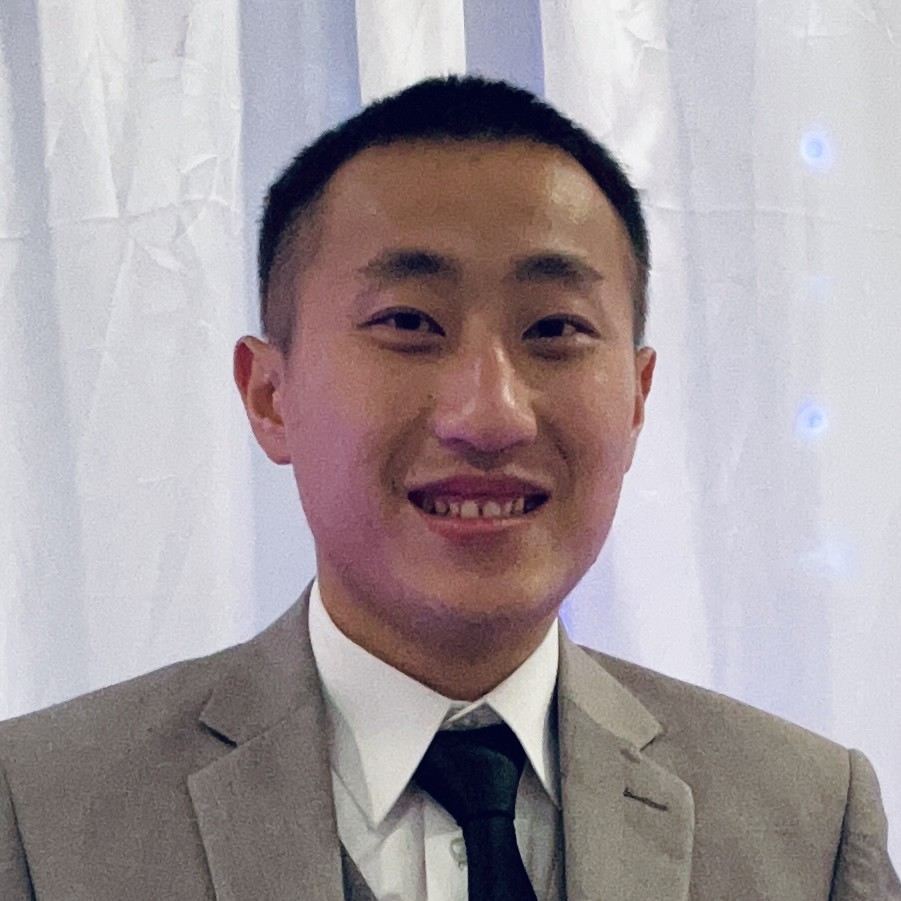
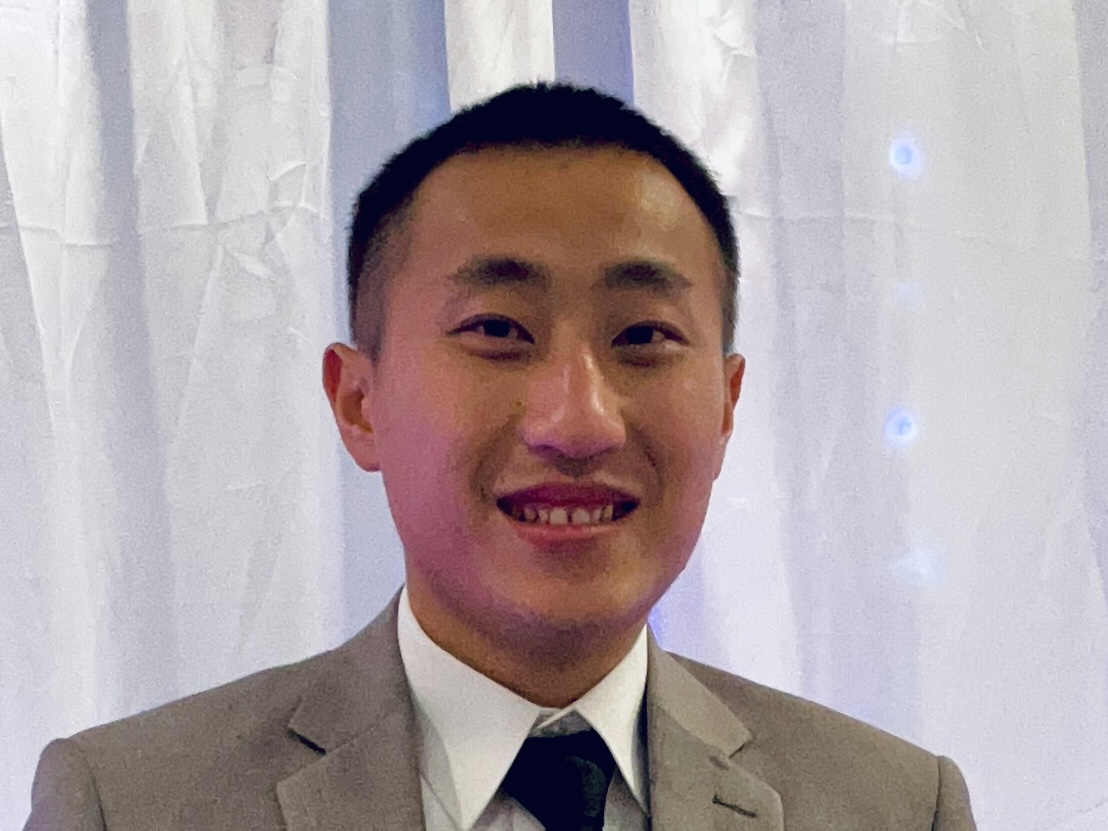
feat: change image dimension and adjust responsive layout

diff --git a/src/routes/+page.svelte b/src/routes/+page.svelte
@@ -1,13 +1,17 @@
 <script lang="ts">
 	import portrait from '$lib/assets/portrait.jpg';
 	import Button from '$lib/ui/button/Button.svelte';
+	import { fly } from 'svelte/transition';
 	import SkillBadge from './_ui/skill-badge/SkillBadge.svelte';
 </script>
 
 <div>
 	<section class="bg-linear-to-b from-bg via-bg-light to-bg-dark">
-		<div class="container grid gap-8 py-16 md:grid-cols-2">
-			<div class="mx-auto flex flex-col justify-center gap-8">
+		<div class="container grid gap-8 py-16 lg:grid-cols-2">
+			<div
+				in:fly={{ x: '-8rem', duration: 1000 }}
+				class="mx-auto flex flex-col justify-center gap-8"
+			>
 				<div class="flex flex-col gap-4">
 					<h1 class="text-4xl font-bold">Hi, I'm Marvin</h1>
 					<p class="text-xl">
@@ -39,7 +43,12 @@
 				</div>
 			</div>
 
-			<img src={portrait} alt="portrait" class="mx-auto size-80 rounded-lg shadow-lg" />
+			<img
+				src={portrait}
+				alt="portrait"
+				in:fly={{ x: '8rem', duration: 1000 }}
+				class="mx-auto max-w-96 rounded-lg shadow-lg"
+			/>
 		</div>
 	</section>
 

diff --git a/src/routes/+layout.svelte b/src/routes/+layout.svelte
@@ -1,5 +1,7 @@
 <script lang="ts">
+	import { page } from '$app/state';
 	import favicon from '$lib/assets/favicon.svg';
+	import { fly } from 'svelte/transition';
 	import Footer from './_ui/footer/Footer.svelte';
 	import Header from './_ui/header/Header.svelte';
 	import './layout.css';
@@ -15,7 +17,11 @@
 <div class="flex min-h-screen flex-col">
 	<Header />
 	<main class="flex-1">
-		{@render children()}
+		{#key page.url}
+			<div in:fly={{ y: '2rem', duration: 500 }}>
+				{@render children()}
+			</div>
+		{/key}
 	</main>
 	<Footer />
 </div>
